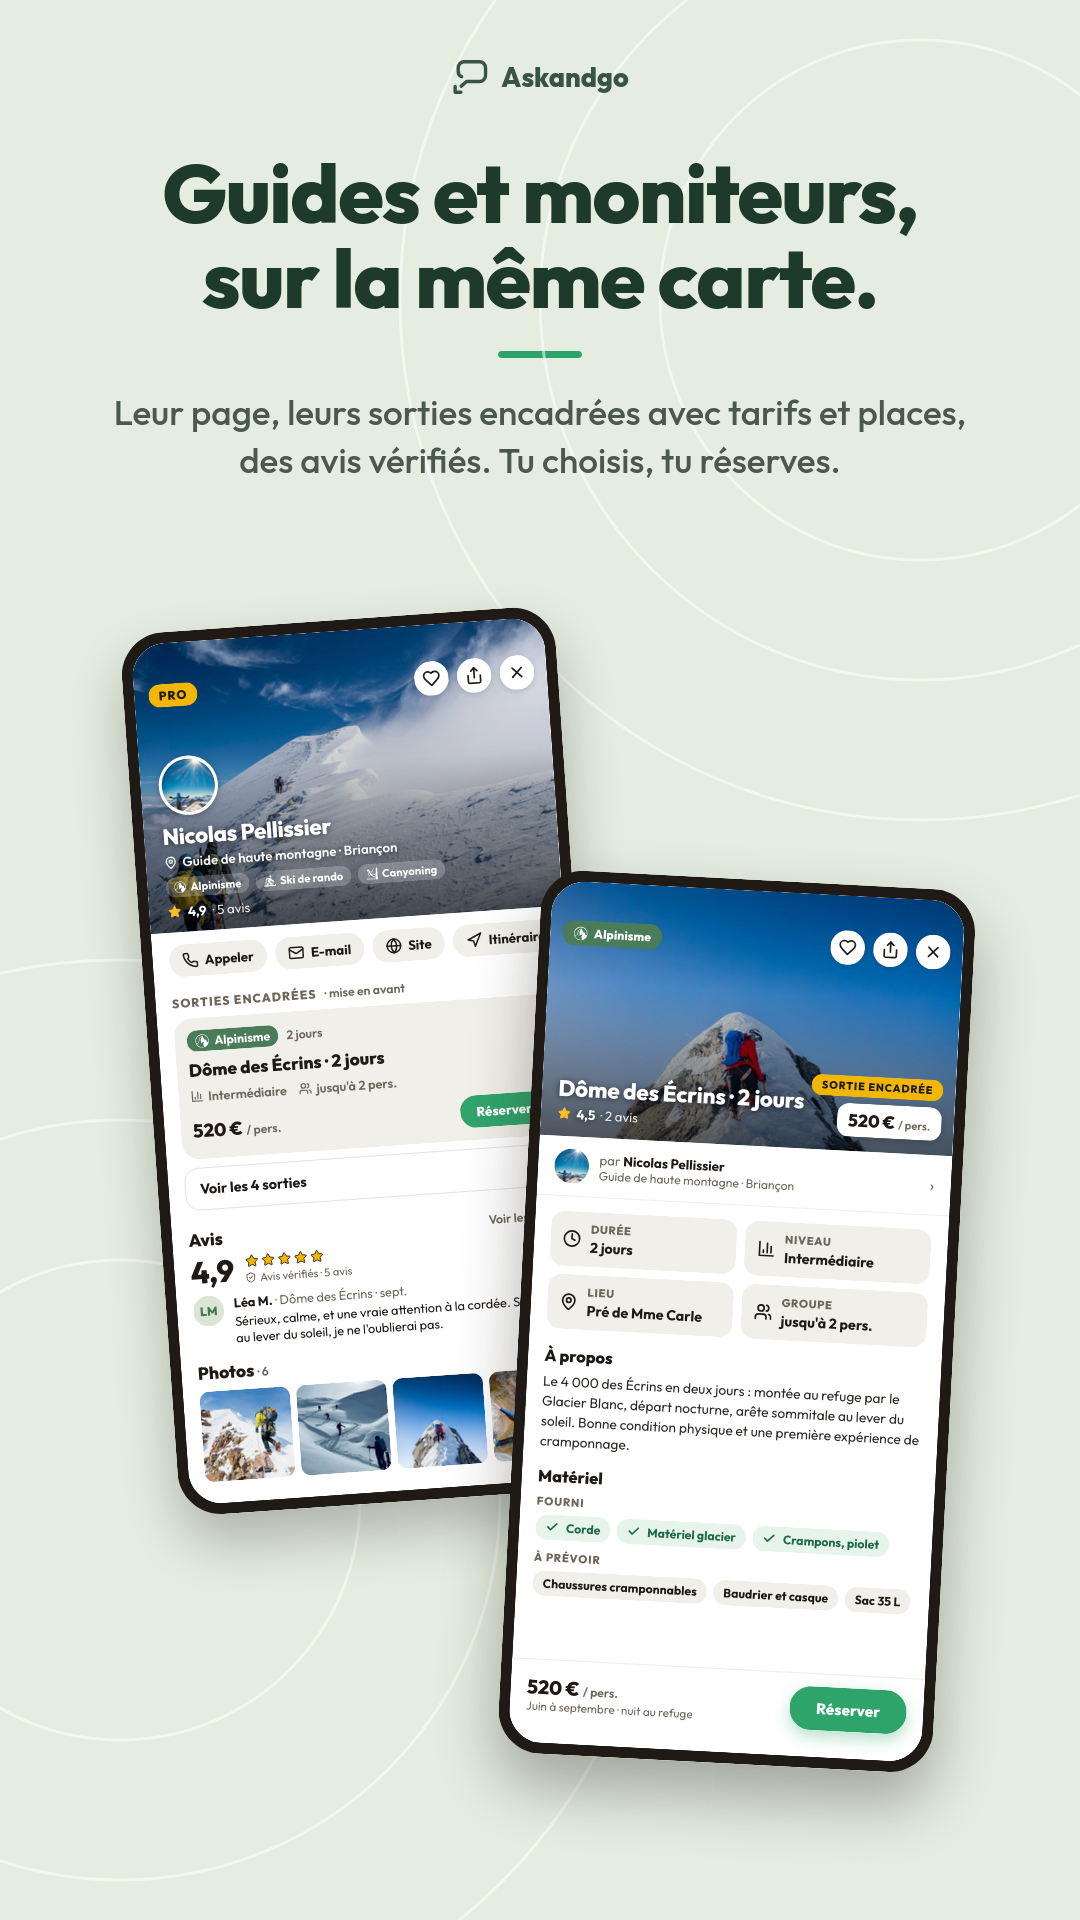
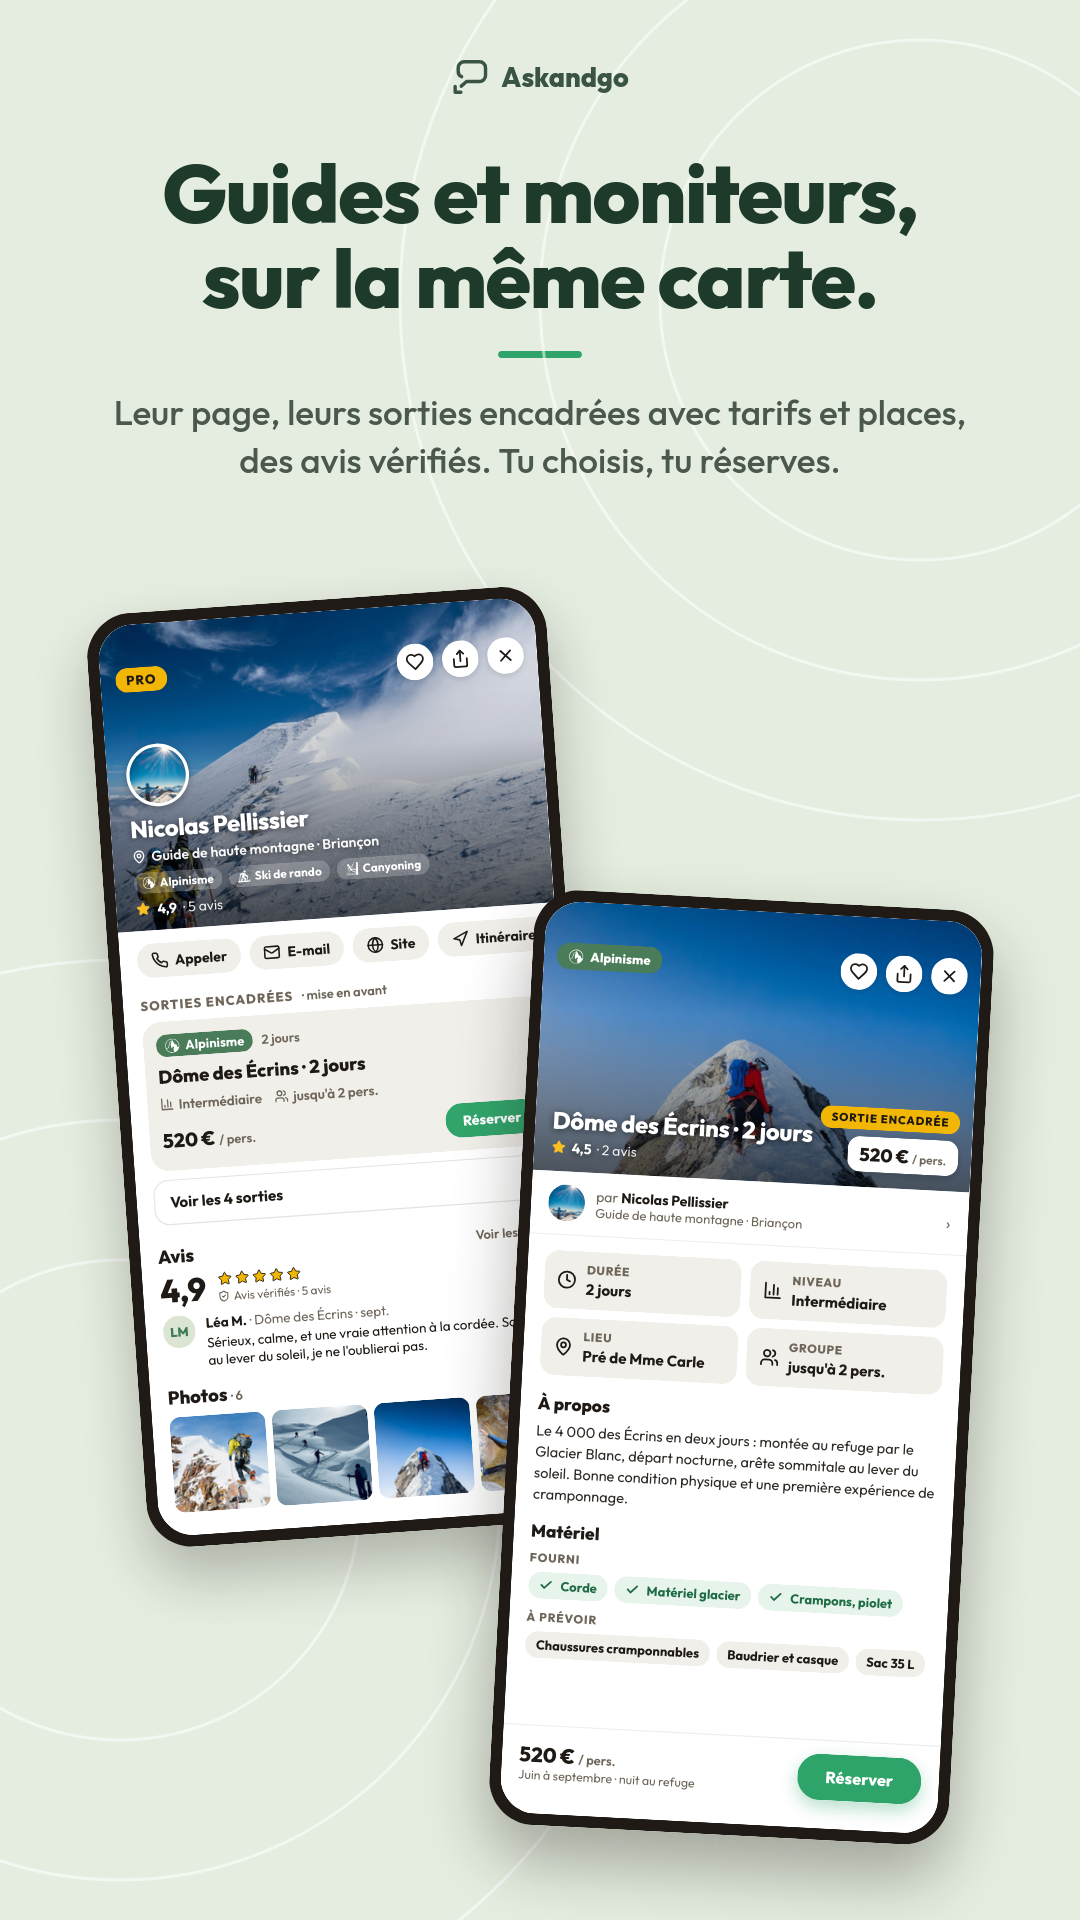
fix(play): images 3 and 6 — phones at 72 %, pushed to the corners; dispo cards with a visible border

Changed region(s): [[0.0611, 0.2812, 0.9167, 1.0]]

diff --git a/assets/play-store/askandgo/generate.py b/assets/play-store/askandgo/generate.py
@@ -144,7 +144,7 @@ def ring_av(ini,color,bg='#DCE5D3',fg='#3F7A56'):
 def dispo(ini,name,tier,tiercol,km,dates,sports,about,state=None,bg='#DCE5D3',fg='#3F7A56'):
     pills=''.join(f'<span class="chip" style="background:{UNI[k]}1A;color:{UNI[k]};gap:4px;padding:4px 9px;font-size:13px"><span class="sp" style="width:14px;height:14px;color:{UNI[k]}">{IC[k]}</span>{n}</span>' for k,n in sports)
     st=f'<span class="chip" style="font-size:14px;padding:4px 9px;color:{SEC}">{state}</span>' if state else ''
-    return f'''<div style="width:252px;flex-shrink:0;background:#FFF;border-radius:18px;padding:14px;display:flex;flex-direction:column;gap:10px;box-shadow:0 2px 6px rgba(31,26,21,.14)">
+    return f'''<div style="width:252px;flex-shrink:0;background:#FFF;border-radius:18px;padding:14px;display:flex;flex-direction:column;gap:10px;border:1.5px solid rgba(31,26,21,.22);box-shadow:0 3px 10px rgba(31,26,21,.16)">
 <div style="display:flex;align-items:center;gap:10px">{ring_av(ini,tiercol,bg,fg)}<div style="flex:1;min-width:0"><div style="font-size:16px;font-weight:700;white-space:nowrap;overflow:hidden;text-overflow:ellipsis">{name}</div><div style="font-size:14px;font-weight:600;color:{tiercol}">{tier}</div></div>{st}</div>
 <div style="font-size:14px;color:{SEC}">à {km} km · {dates}</div>
 <div style="display:flex;flex-wrap:wrap;gap:6px">{pills}</div>

diff --git a/assets/play-store/askandgo/two.py b/assets/play-store/askandgo/two.py
@@ -20,8 +20,8 @@ which = sys.argv[1]
 
 def two_screens(title, sub, body_a, body_b):
     shell = screen(title, sub, '', '')
-    phones = (f'<div class="phone" style="left:16px;top:620px;transform:scale(.68) rotate(-4deg);z-index:1"><div class="scr">{body_a}</div></div>'
-              f'<div class="phone" style="left:440px;top:880px;transform:scale(.68) rotate(3deg);z-index:2;box-shadow:0 46px 90px rgba(31,26,21,.34)"><div class="scr">{body_b}</div></div>')
+    phones = (f'<div class="phone" style="left:-6px;top:600px;transform:scale(.72) rotate(-4deg);z-index:1"><div class="scr">{body_a}</div></div>'
+              f'<div class="phone" style="left:446px;top:900px;transform:scale(.72) rotate(3deg);z-index:2;box-shadow:0 46px 90px rgba(31,26,21,.34)"><div class="scr">{body_b}</div></div>')
     return shell.replace('<div class="phone"><div class="scr"></div></div>', phones)
 
 # ---------- 3 · the page of a dispo (app/(auth)/partners/dispo.tsx) ----------
